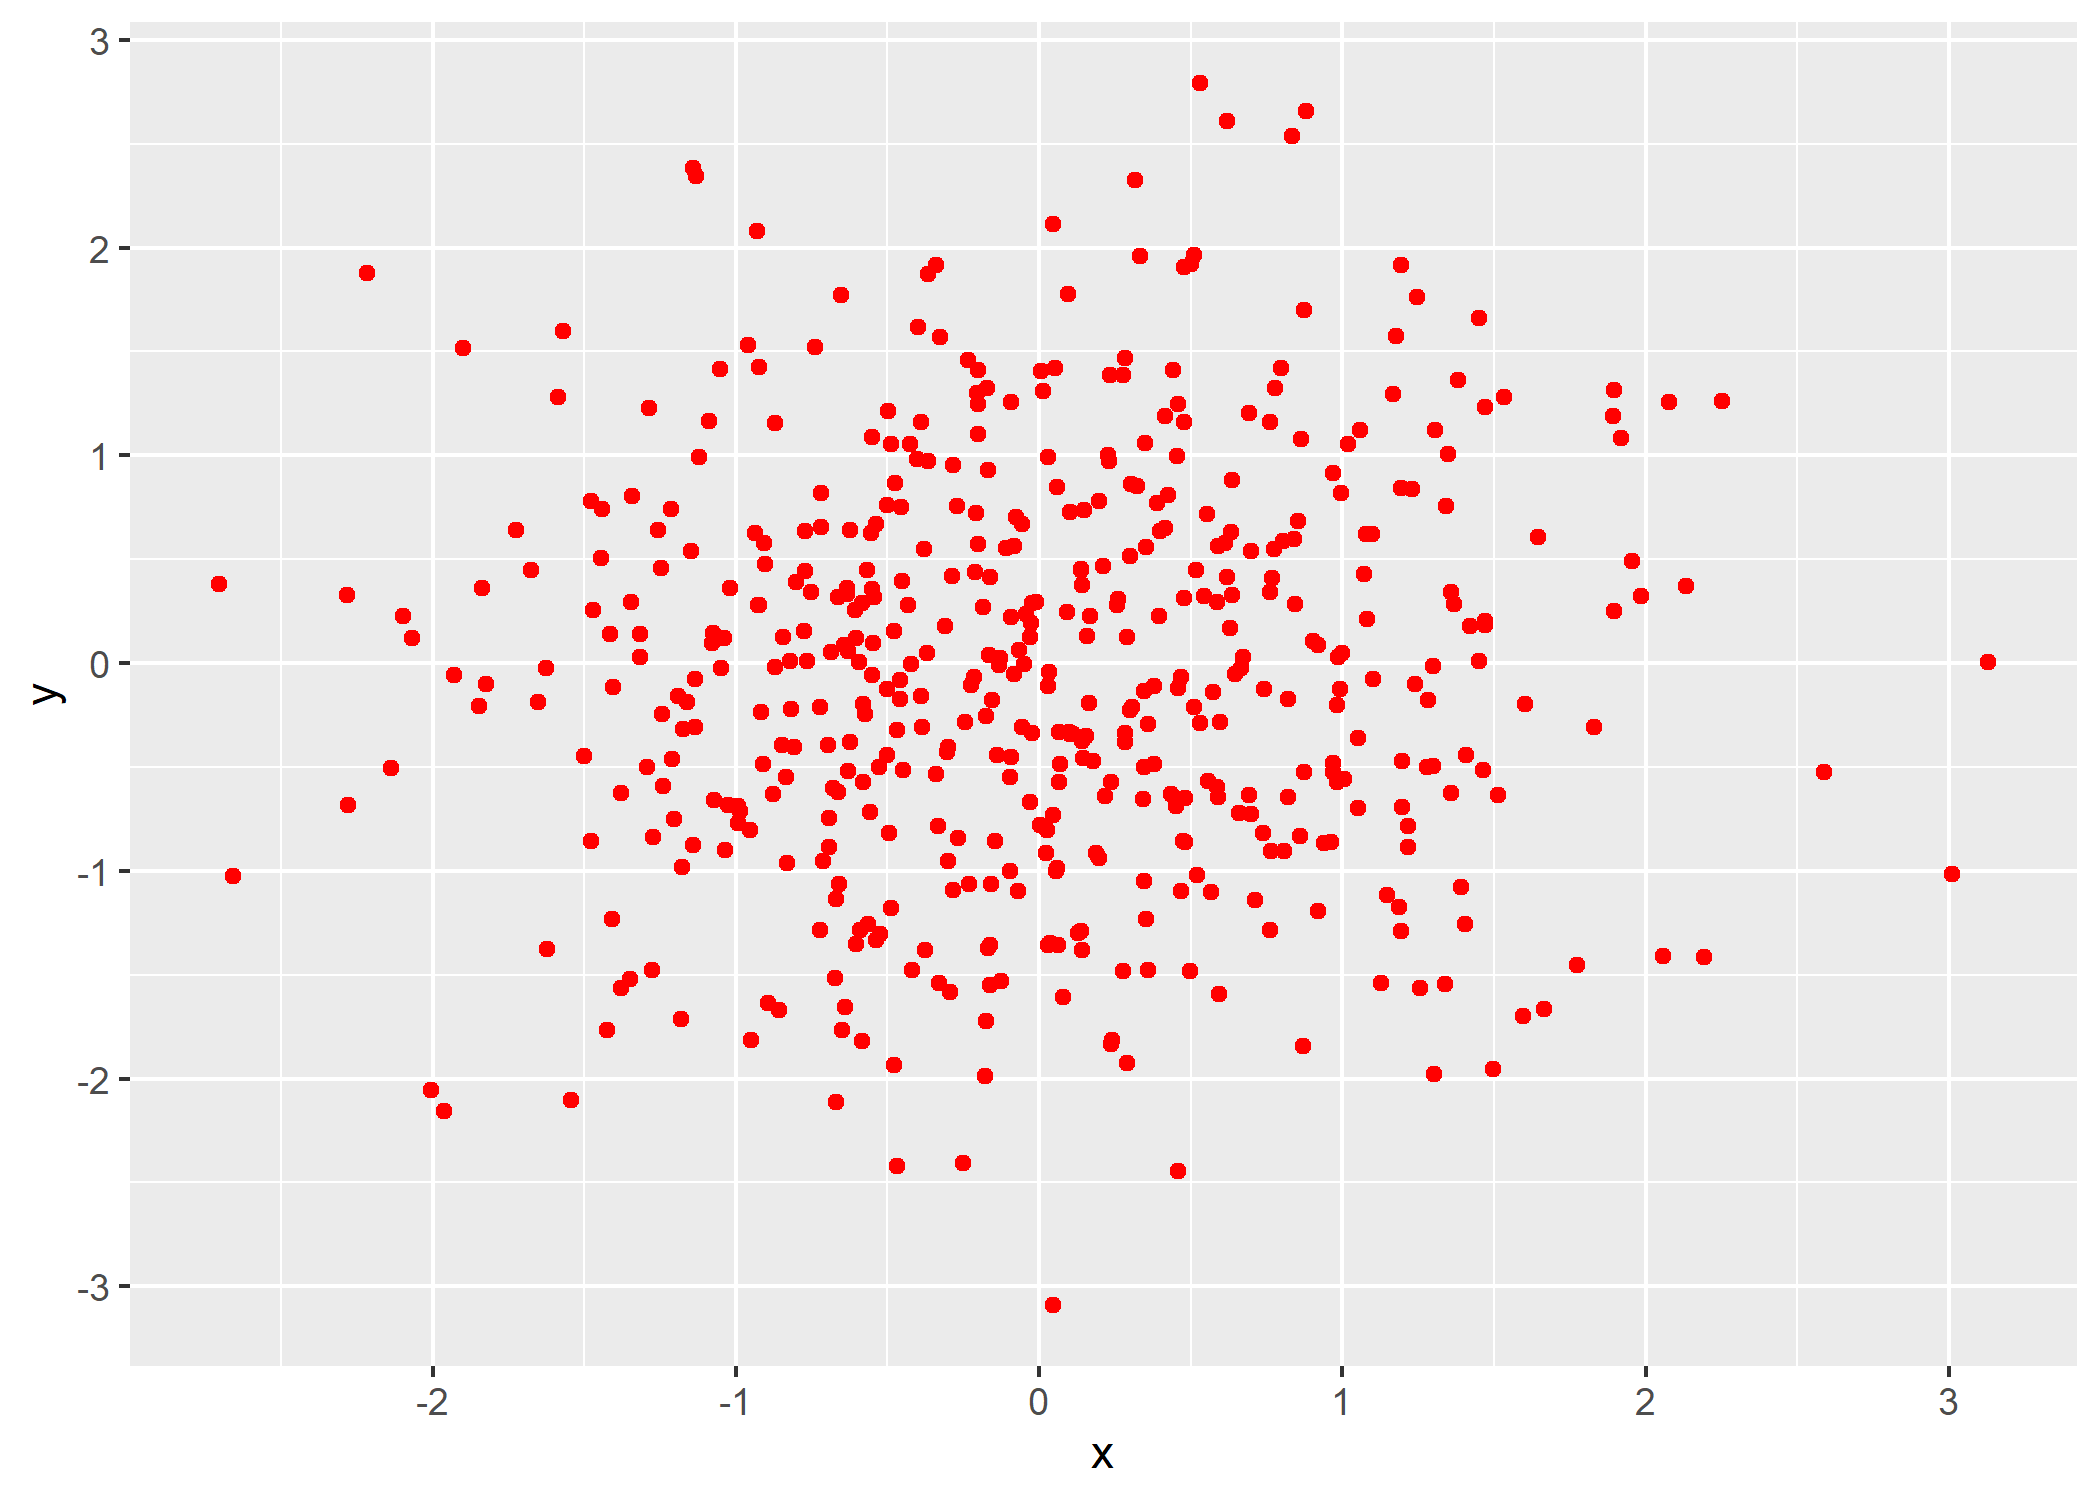
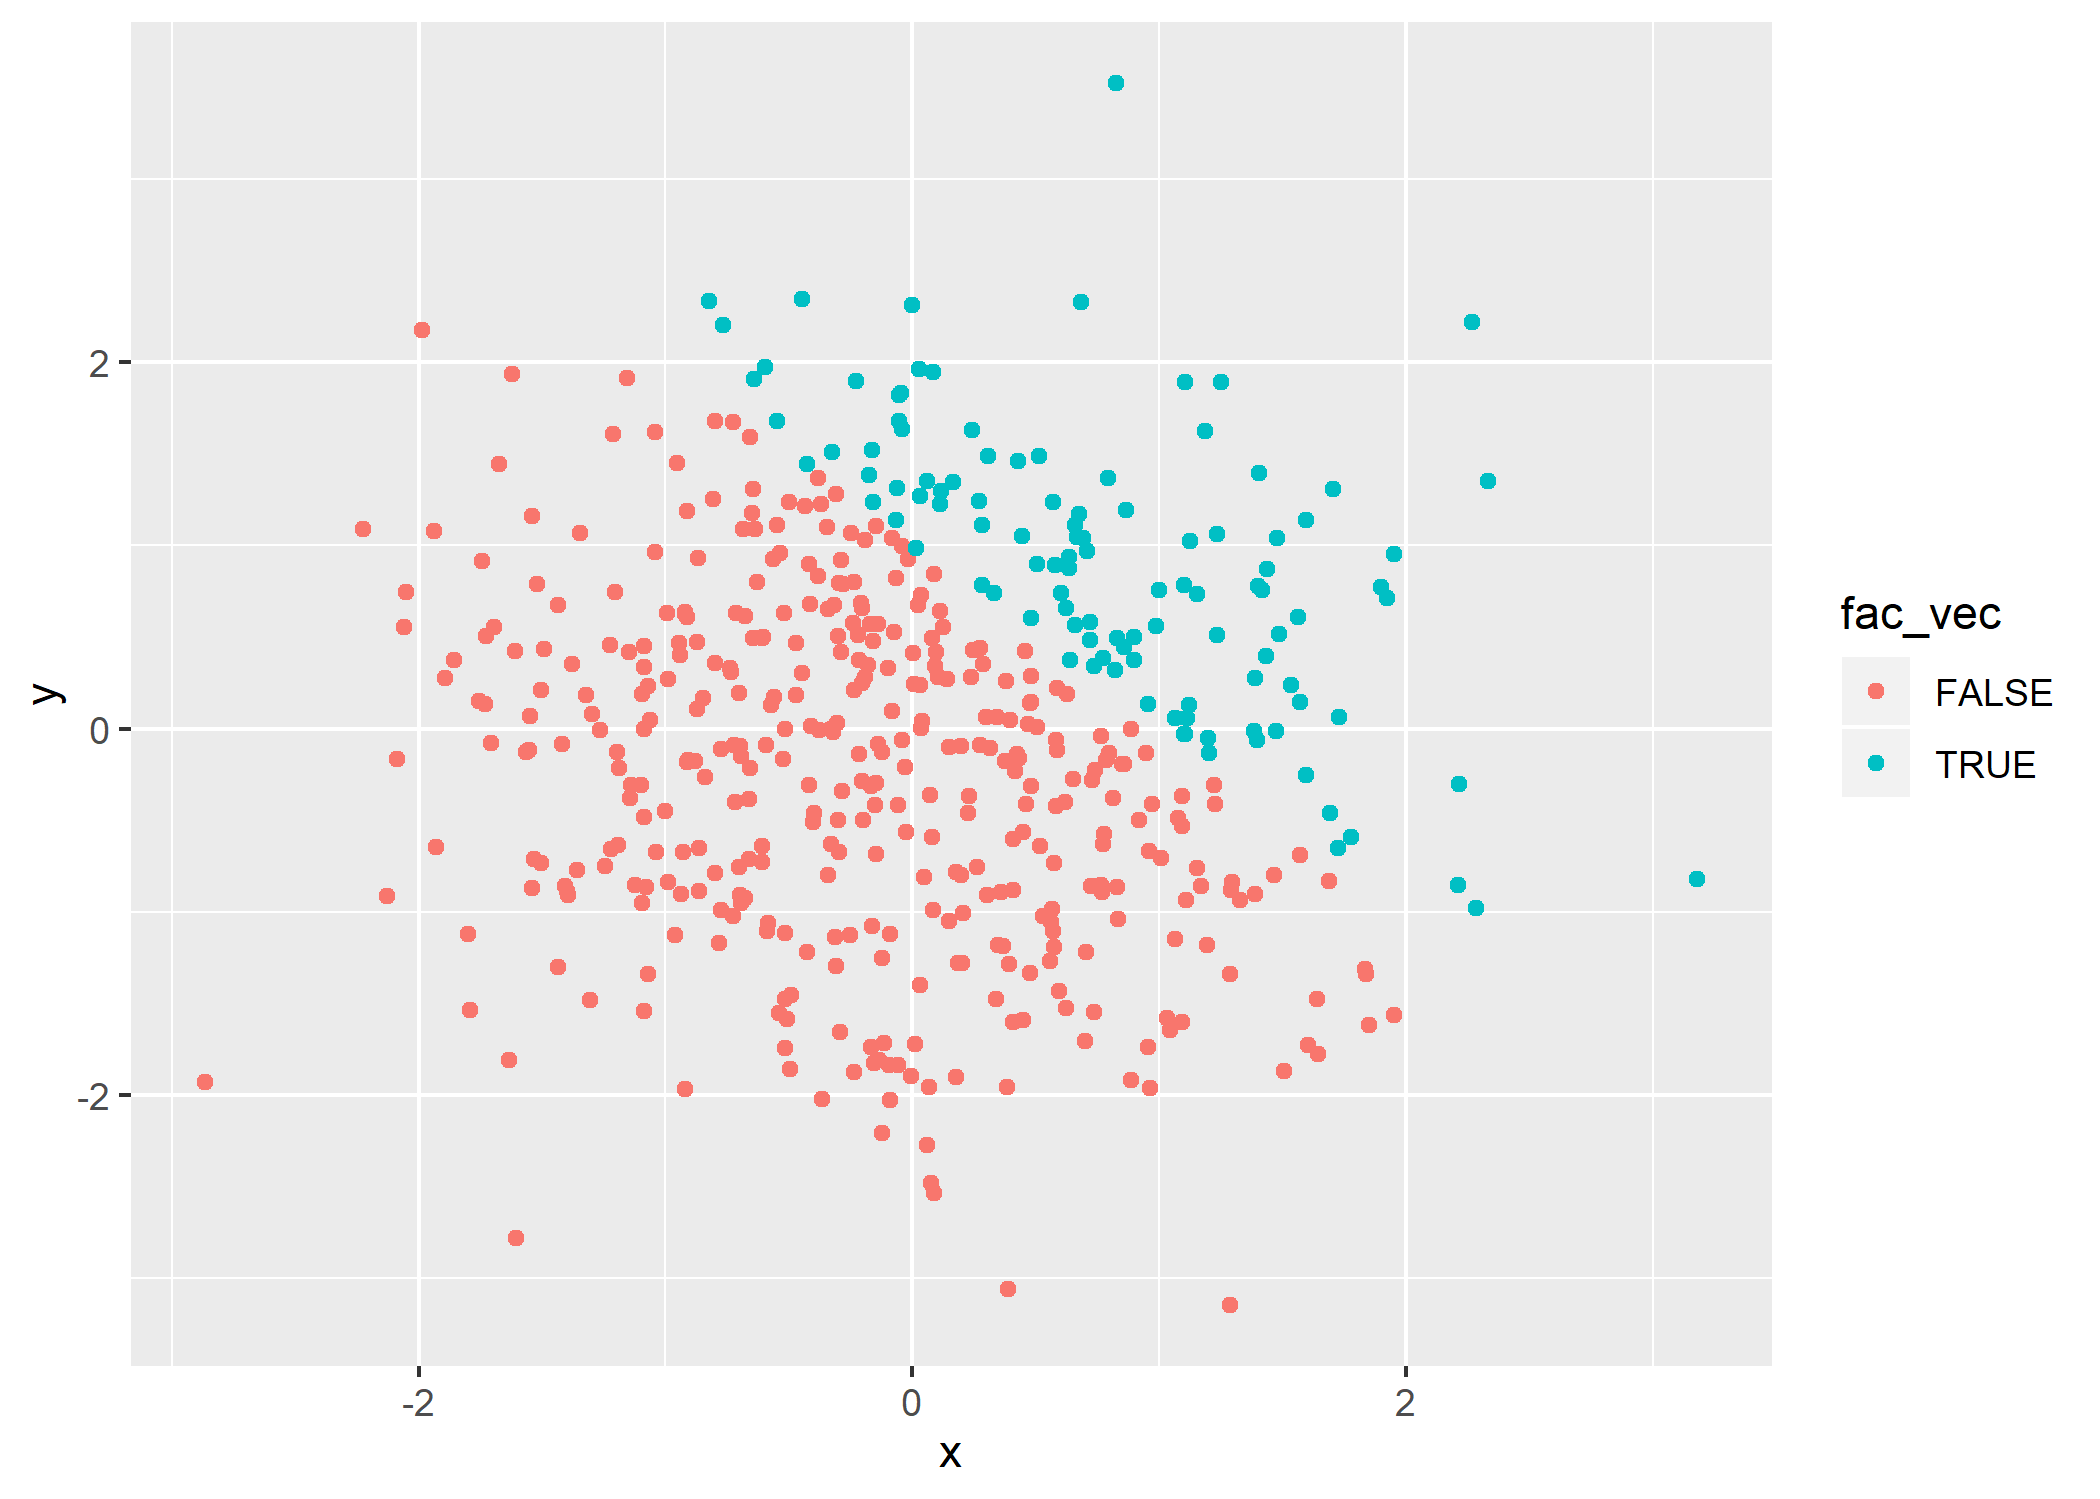
added the last two extra plots and edited the converting section in problem 1

diff --git a/p8105_hw1_kq2127.md b/p8105_hw1_kq2127.md
@@ -17,13 +17,13 @@ p1_df = tibble(
 mean(pull(p1_df, sample))
 ```
 
-    ## [1] -0.249431
+    ## [1] -0.6279693
 
 ``` r
 mean(pull(p1_df, gr_th_0))
 ```
 
-    ## [1] 0.375
+    ## [1] 0.25
 
 ``` r
 mean(pull(p1_df, vec_char))
@@ -44,8 +44,8 @@ mean(pull(p1_df, vec_factor))
     ## [1] NA
 
 When I take the mean of the first two variables in my data frame I get a
-result. The mean variable sample is -0.249431 and the mean of variable
-gr\_th\_0 is 0.375 . I was not able to take the mean of the last two
+result. The mean variable sample is -0.6279693 and the mean of variable
+gr\_th\_0 is 0.25 . I was not able to take the mean of the last two
 variables, vec\_char and vec\_factor because these two variables are not
 numeric or logical.
 
@@ -70,29 +70,28 @@ gr_th_0_num = as.numeric(pull(p1_df, gr_th_0))
 gr_th_0_num*(pull(p1_df, sample))
 ```
 
-    ## [1] 0.14653104 0.00000000 0.00488641 0.00000000 0.00000000 0.00000000
-    ## [7] 0.60278652 0.00000000
+    ## [1] 0.0000000 0.0000000 0.0000000 0.5968268 1.1619265 0.0000000 0.0000000
+    ## [8] 0.0000000
 
 ``` r
-vec_char_num = as.numeric(pull(p1_df, vec_char))
+gr_th_0_fac = as.factor(pull(p1_df, gr_th_0))
+
+gr_th_0_fac*(pull(p1_df, sample))
 ```
 
-    ## Warning: NAs introduced by coercion
-
-``` r
-##vec_char_num*(pull(p1_df, vec_char))##
-
-
-
-vec_factor_num = as.numeric(pull(p1_df, vec_factor))
-
-vec_factor_num*(pull(p1_df, vec_factor))
-```
-
-    ## Warning in Ops.factor(vec_factor_num, (pull(p1_df, vec_factor))): '*' not
+    ## Warning in Ops.factor(gr_th_0_fac, (pull(p1_df, sample))): '*' not
     ## meaningful for factors
 
     ## [1] NA NA NA NA NA NA NA NA
+
+``` r
+gr_th_0_fac_num = as.numeric(as.factor(pull(p1_df, gr_th_0)))
+
+gr_th_0_fac_num*(pull(p1_df, sample))
+```
+
+    ## [1] -1.3504008 -0.1808372 -2.4357166  1.1936536  2.3238529 -1.4670792
+    ## [7] -0.9707894 -0.3776845
 
 # Problem 2
 
@@ -101,20 +100,45 @@ p2_df = tibble(
   x = rnorm(500),
   y = rnorm(500),
   gr_th_1 = x + y > 1,
-  num_vec = as.numeric(gr_th_1)
+  num_vec = as.numeric(gr_th_1), 
+  fac_vec = as.factor(gr_th_1)
 )
 ```
 
-The size of the dataset is 500 rows and 4 columns. The mean of x is
--0.0138762, the median is -0.0290357, and the standard deviation of x is
-0.942462. The proportion of cases for which x + y \> 1 is
+The size of the dataset is 500 rows and 5 columns. The mean of x is
+-0.0122498, the median is -0.0536408, and the standard deviation of x is
+0.9463382. The proportion of cases for which x + y \> 1
+is
 
 ``` r
-xy_plot = ggplot(p2_df, aes(x = x, y = y)) + geom_point(color = "red")
+xy_plot_l = ggplot(p2_df, aes(x = x, y = y, color = gr_th_1)) + geom_point()
 
+xy_plot_l
+```
+
+![](p8105_hw1_kq2127_files/figure-gfm/yx_scatter-1.png)<!-- -->
+
+``` r
+xy_plot_n = ggplot(p2_df, aes(x = x, y = y, color = num_vec)) + geom_point()
+
+xy_plot_n
+```
+
+![](p8105_hw1_kq2127_files/figure-gfm/yx_scatter-2.png)<!-- -->
+
+``` r
+xy_plot_f = ggplot(p2_df, aes(x = x, y = y, color = fac_vec)) + geom_point()
+
+xy_plot_f
+```
+
+![](p8105_hw1_kq2127_files/figure-gfm/yx_scatter-3.png)<!-- -->
+
+``` r
 ggsave("xy_plot.png")
 ```
 
     ## Saving 7 x 5 in image
 
-\`\`\`
+\`\`\` The color scale of the xy plot colored by the logical vector
+demonstrates
